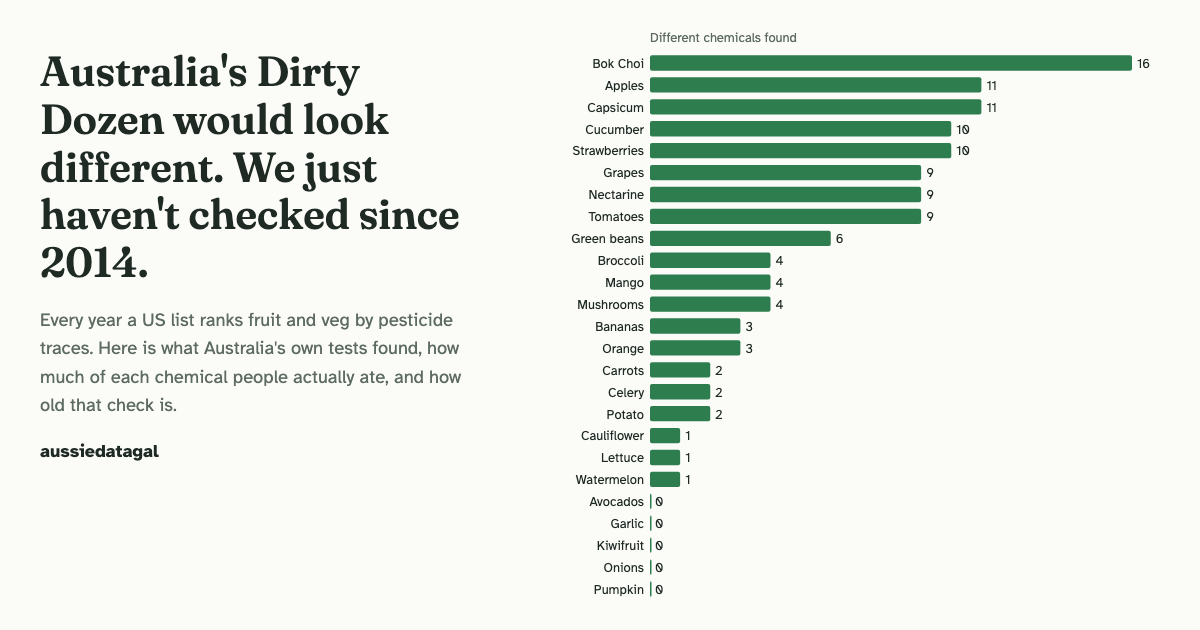
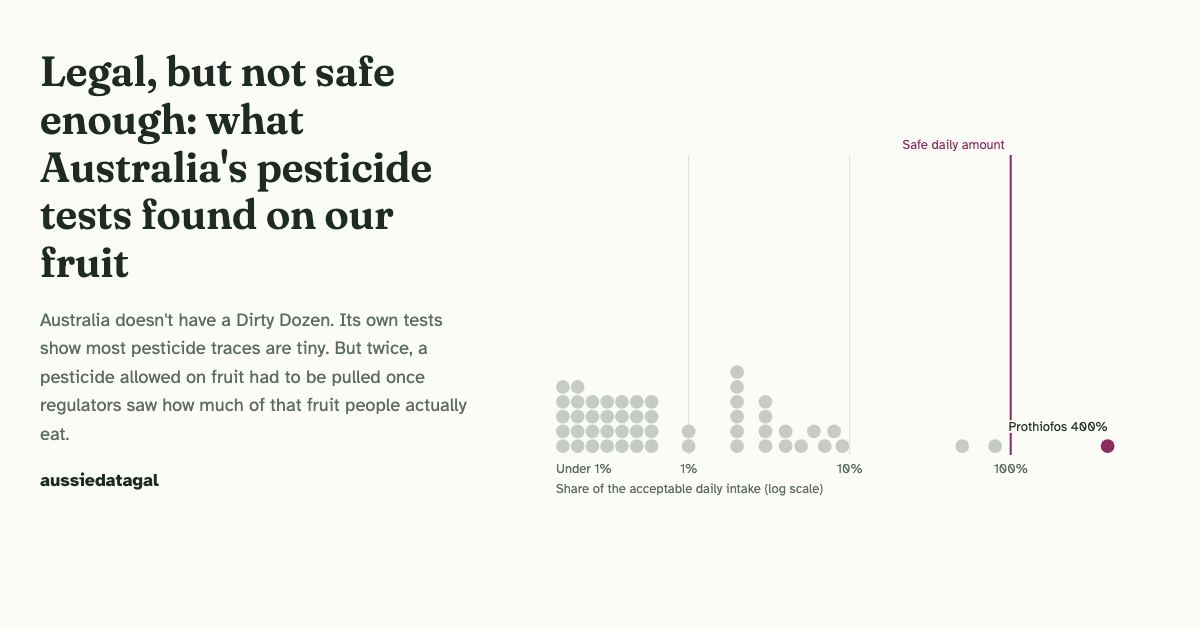
Refocus on grapes and berries, add 2025 NSW berry testing

diff --git a/index.html b/index.html
@@ -3,10 +3,10 @@
 <head>
   <meta charset="utf-8">
   <meta name="viewport" content="width=device-width, initial-scale=1">
-  <title>Australia's Dirty Dozen would look different. We just haven't checked since 2014.</title>
-  <meta name="description" content="The US Dirty Dozen is built from US tests. Australia's own check of pesticides in everyday food found a different top list, mostly tiny amounts, one real problem on grapes, and used groceries bought in 2013 and 2014.">
-  <meta property="og:title" content="Australia's Dirty Dozen would look different. We just haven't checked since 2014.">
-  <meta property="og:description" content="What Australia's own pesticide tests found in fruit and veg, against safe limits, and how old that check is.">
+  <title>Legal, but not safe enough: what Australia's pesticide tests found on our fruit</title>
+  <meta name="description" content="Australia has no Dirty Dozen. Its own tests show most pesticide traces on fruit and veg are tiny. But twice a pesticide allowed on fruit was pulled once regulators saw how much of that fruit people eat: grapes, then berries in 2025.">
+  <meta property="og:title" content="Legal, but not safe enough: what Australia's pesticide tests found on our fruit">
+  <meta property="og:description" content="Most traces are tiny. The problems were legal pesticide uses that stopped being safe once people ate more of the fruit.">
   <meta property="og:image" content="https://aussiedatagal.github.io/dirty-dozen/img/og.png">
   <meta property="og:url" content="https://aussiedatagal.github.io/dirty-dozen/">
   <meta name="twitter:card" content="summary_large_image">
@@ -25,8 +25,8 @@
 
   <main>
     <section class="intro prose">
-      <h1>Australia's Dirty Dozen would look different. We just haven't checked since 2014.</h1>
-      <p class="dek">Every year a US list ranks fruit and veg by pesticide traces. Here is what Australia's own tests found, how much of each chemical people actually ate, and how old that check is.</p>
+      <h1>Legal, but not safe enough: what Australia's pesticide tests found on our fruit</h1>
+      <p class="dek">Australia doesn't have a Dirty Dozen. Its own tests show most pesticide traces are tiny. But twice, a pesticide allowed on fruit had to be pulled once regulators saw how much of that fruit people actually eat.</p>
       <p class="scroll-hint">Scroll to start</p>
     </section>
 
@@ -36,17 +36,9 @@
         <p class="sr-only" id="list-desc" aria-live="polite"></p>
       </figure>
       <div class="steps">
-        <div class="step" data-state="all">
-          <p>This is the 2026 Dirty Dozen. The Environmental Working Group, a US advocacy group, ranks produce by the pesticide traces found in US government tests. Spinach came first this year.</p>
-          <p>Australian shoppers see the list too. But every number behind it comes from produce sold in the US.</p>
-        </div>
         <div class="step" data-state="tested">
-          <p>Australia does test its own food. Food Standards Australia New Zealand (FSANZ) runs the <a href="https://www.foodstandards.gov.au/science-data/monitoring-safety/australian-total-diet-study">Australian Total Diet Study</a>. It buys ordinary groceries around the country and sends them to a lab.</p>
-          <p>Its last pesticide round covered 88 foods. Only <strong>5 of the Dirty Dozen</strong> were in it as fresh produce.</p>
-        </div>
-        <div class="step" data-state="untested">
-          <p>Spinach, kale, cherries, blackberries, pears and blueberries were not tested at all. Peaches were only tested canned, and nothing turned up.</p>
-          <p>So the top of the US list is mostly foods Australia's diet study never looked at.</p>
+          <p>This is the 2026 Dirty Dozen. It ranks produce by pesticide traces, using US government tests of US produce.</p>
+          <p>Australia's own check, the <a href="https://www.foodstandards.gov.au/science-data/monitoring-safety/australian-total-diet-study">Australian Total Diet Study</a>, only tested 5 of these 12 fresh.</p>
         </div>
       </div>
     </section>
@@ -58,23 +50,12 @@
       </figure>
       <div class="steps">
         <div class="step" data-state="all">
-          <p>So what would an Australian list look like? These are all 25 fresh fruits and vegetables in the study.</p>
-          <p>They are ranked the way FSANZ reported them: by how many different farm chemicals turned up across each food's samples.</p>
+          <p>These are the 25 fresh fruits and vegetables Australia did test, ranked by how many different farm chemicals turned up in their samples.</p>
+          <p>Bok choi tops it with 16. Five had none.</p>
         </div>
         <div class="step" data-state="top">
-          <p><strong>Bok choi</strong> tops it, with 16 different chemicals across 8 samples. Capsicum and cucumber are near the top too.</p>
-          <p>None of those three are on the US list.</p>
-        </div>
-        <div class="step" data-state="overlap">
-          <p>Apples, strawberries, grapes and nectarines are high on both lists.</p>
-          <p>Potatoes are 11th in the US. Here, only 2 chemicals turned up, each in a single sample.</p>
-        </div>
-        <div class="step" data-state="clean">
-          <p>Two of the US "Clean Fifteen" look less clean here. Every cauliflower sample had dithiocarbamate fungicides. Carbendazim, another fungicide, was in 6 of 8 mushroom samples.</p>
-        </div>
-        <div class="step" data-state="zero">
-          <p>Five had nothing at all: avocados, garlic, kiwifruit, onions and pumpkin.</p>
-          <p>A count of chemicals says nothing about the amounts, though. That is the part that matters for health.</p>
+          <p>The top three here, bok choi, capsicum and cucumber, aren't on the US list at all.</p>
+          <p>But a count of chemicals says nothing about how much was there. That's what decides whether it matters.</p>
         </div>
       </div>
     </section>
@@ -85,64 +66,49 @@
         <p class="sr-only" id="dots-desc" aria-live="polite"></p>
       </figure>
       <div class="steps">
-        <div class="step" data-state="all">
-          <p>Each dot is one chemical the study found. Further right means people ate more of it.</p>
-          <p>The scale is the <em>acceptable daily intake</em>: the amount you could eat every day for life without appreciable risk to health. The line marks 100% of it.</p>
-        </div>
         <div class="step" data-state="worst">
-          <p>These dots are a worst case. For each chemical we show the age group that ate the most, and the top 10% of eaters in that group.</p>
-          <p>Even so, <strong>49 of the 52</strong> chemicals FSANZ assessed stay under 10% of the safe amount. Most are under 1%.</p>
-        </div>
-        <div class="step" data-state="close">
-          <p>Two get closer. Dithiocarbamate fungicides reach 80% for heavy-eating 2 to 5 year olds. Broccoli, grapes and cauliflower had the most.</p>
-          <p>Propargite, a mite killer found on nectarines and apples, reaches 50%.</p>
+          <p>Each dot is one chemical. It sits at how much the heaviest eaters got, as a share of the <em>acceptable daily intake</em>: the amount you could eat every day for life without appreciable risk.</p>
+          <p><strong>49 of 52</strong> stay under 10% of that.</p>
         </div>
         <div class="step" data-state="over">
-          <p>One went over. <strong>Prothiofos</strong>, an insecticide, came only from grapes.</p>
-          <p>For 2 to 5 year olds who ate grapes, the average dose was double the safe amount. The top 10% got four times it.</p>
-        </div>
-        <div class="step" data-state="over">
-          <p>Every one of those grape samples was legal. The residues were well under the maximum residue limit, the legal cap for grapes.</p>
-          <p>The legal limit and the safe limit had come apart. After FSANZ raised it, the company holding the approval cancelled its use on grapes.</p>
+          <p>One went over. <strong>Prothiofos</strong>, an insecticide, came only from grapes. Young kids who ate grapes got double the safe amount on average.</p>
+          <p>Yet every grape sample was under the legal limit. After FSANZ raised it, the company behind it cancelled its use on grapes.</p>
           <a class="scan-link" href="img/fsanz-prothiofos.png"><img class="scan" src="img/fsanz-prothiofos.png" width="1290" height="260" alt="Paragraph from the FSANZ report: the detections of prothiofos in composite grape samples were all well below the MRL, and the Australian registrant voluntarily cancelled label approvals for the use of prothiofos on grapes."></a>
-          <p class="credit">From the 25th Australian Total Diet Study, page 30. Food Standards Australia New Zealand. Tap to enlarge.</p>
+          <p class="credit">25th Australian Total Diet Study, page 30. Food Standards Australia New Zealand.</p>
         </div>
       </div>
     </section>
 
-    <section class="scrolly" id="time">
-      <figure class="sticky" aria-describedby="time-desc">
+    <section class="scrolly" id="berries">
+      <figure class="sticky" aria-describedby="berries-desc">
         <div class="graphic"></div>
-        <p class="sr-only" id="time-desc" aria-live="polite"></p>
+        <p class="sr-only" id="berries-desc" aria-live="polite"></p>
       </figure>
       <div class="steps">
-        <div class="step" data-state="bought">
-          <p>That check is old. The groceries were bought in May 2013 and February 2014. The report came out in June 2019.</p>
+        <div class="step" data-state="punnets">
+          <p>In 2025 it happened again, with berries.</p>
+          <p>A Southern Cross University researcher <a href="https://www.abc.net.au/news/2025-09-07/pesticide-review-thiometon-dimethoate-blueberries-raspberries/105701674">reported pesticides in NSW supermarket berries</a>, including one banned since 2001. In November, the NSW Food Authority bought 100 punnets from Sydney shops and had them tested.</p>
         </div>
-        <div class="step" data-state="since">
-          <p>FSANZ has published two total diet studies since. One tested dioxins and the other PFAS. Neither tested pesticides.</p>
-          <p>Twelve years after the shopping trip, it is still the latest look at pesticides across the Australian diet.</p>
+        <div class="step" data-state="residues">
+          <p><strong>95 of the 100</strong> had at least one pesticide.</p>
+          <p>Every one was within the legal limit, and the banned pesticide wasn't in any of them.</p>
         </div>
-        <div class="step" data-state="apples">
-          <p>Newer testing exists, but it is narrow. The National Residue Survey checks apples and pears every year for the fruit industry. It only reports samples near or over the legal limit.</p>
-          <p>Each square here is one apple sample from 2024-25.</p>
-        </div>
-        <div class="step" data-state="apples-over">
-          <p>In 2024-25, <strong>6 of 170</strong> apple samples were over the legal limit for the fungicide iprodione. Another 4 were above half of it.</p>
-          <p>The year before, it was 2 of 166 over.</p>
+        <div class="step" data-state="dimethoate">
+          <p>But legal wasn't the whole story. Australians now eat significantly more berries than when the insecticide <strong>dimethoate</strong> was last assessed in 2017.</p>
+          <p>At today's intake, the regulator found its approved use on berries no longer left an adequate safety margin. It suspended that use in November 2025, while saying the residues found were unlikely to pose a serious risk.</p>
         </div>
       </div>
     </section>
 
     <section class="prose turn">
-      <h2>So is there an Australian Dirty Dozen?</h2>
-      <p>Not one you can build honestly from public data. The only full check says most traces were tiny, with one real problem caught and fixed. But it tested food from 2014, and nobody has published a repeat.</p>
-      <p>What it can't tell you is whether today's bok choi or grapes look the same. A new pesticide round of the Total Diet Study would answer that.</p>
+      <h2>So what would an Australian Dirty Dozen show?</h2>
+      <p>Not a list of foods to avoid. Most traces here are tiny. Both real problems were pesticides used legally on popular fruit, where the rules hadn't kept up with how much of it people eat.</p>
+      <p>The next full check is underway. FSANZ began collecting over 2,000 food samples in 2025 for a new Total Diet Study that includes pesticides. The last one used groceries bought in 2013 and 2014.</p>
     </section>
 
     <section class="lookup prose" id="lookup">
       <h2>Look up a food</h2>
-      <p>All 88 foods in the study, including bread, cereal, meat and drinks.</p>
+      <p>All 88 foods from the last Total Diet Study (bought 2013 and 2014), including bread, cereal, meat and drinks.</p>
       <label for="food-search">Food</label>
       <input id="food-search" type="search" placeholder="Try apples or bread" autocomplete="off">
       <ul class="food-list" id="food-list"></ul>
@@ -151,12 +117,11 @@
 
     <section class="method prose" id="method">
       <h2>How this was made</h2>
-      <p>The Australian results are from the <a href="https://www.foodstandards.gov.au/science-data/monitoring-safety/australian-total-diet-study">25th Australian Total Diet Study</a> (FSANZ, June 2019): Table A3.9 for which chemicals were found in which foods, and Appendix 11 for dietary exposure as a share of the acceptable daily intake. FSANZ bought 1,524 grocery items and blended them in threes into 508 composite samples. Most fresh produce had 8 composites each (mango and garlic had 4). 172 of the 508 had at least one farm chemical.</p>
-      <p>A composite blends three purchases, so "found in 2 of 8 samples" means at least 2 of 24 purchases. These numbers can't be compared with US rates, which come from single samples.</p>
-      <p>The ranking counts different chemicals per food, as FSANZ did. It ignores amounts. The dots use the highest 90th percentile exposure across age groups, for people who ate the food. Chemicals under 1% are drawn at 0.5%.</p>
-      <p>Apple results are from the <a href="https://www.agriculture.gov.au/agriculture-land/farm-food-drought/food/nrs/nrs-results-publications">National Residue Survey</a> annual datasets for 2023-24 and 2024-25 (Department of Agriculture, Fisheries and Forestry). The survey is run for industry and only reports results above half the legal limit.</p>
-      <p>The 2026 Dirty Dozen and Clean Fifteen are from the <a href="https://www.ewg.org/foodnews/">Environmental Working Group</a>, as reported by <a href="https://www.foodsafetynews.com/2026/04/ewg-reveals-its-dirty-dozen-aff-challenges-validity-of-list/">Food Safety News</a> on 8 April 2026.</p>
-      <p>FSANZ and DAFF material is used under <a href="https://creativecommons.org/licenses/by/4.0/">CC BY 4.0</a>. Neither agency has reviewed or endorsed this page.</p>
+      <p>The ranking and the dots are from the <a href="https://www.foodstandards.gov.au/science-data/monitoring-safety/australian-total-diet-study">25th Australian Total Diet Study</a> (FSANZ, June 2019): Table A3.9 for which chemicals were found in which foods, and Appendix 11 for intake as a share of the acceptable daily intake. Groceries were bought in May 2013 and February 2014, then blended in threes into 508 composite samples. Most fresh produce had 8 composites each (mango and garlic had 4). Because each composite blends three purchases, these numbers can't be compared with US rates, which come from single samples.</p>
+      <p>The ranking counts different chemicals per food, as FSANZ did, and ignores amounts. Each dot is the highest 90th percentile intake across age groups, for people who ate the food. Chemicals under 1% are drawn in a block below 1%.</p>
+      <p>Berry results are from the NSW Food Authority's <a href="https://www.foodauthority.nsw.gov.au/media/9265">Pesticides in berries survey</a> (published March 2026): 80 blueberry and 20 raspberry punnets bought in Sydney on 3 and 4 November 2025, tested for 218 pesticides. © State of New South Wales through the NSW Food Authority, www.foodauthority.nsw.gov.au. The dimethoate suspension was announced by the Australian Pesticides and Veterinary Medicines Authority on 11 November 2025, as reported by <a href="https://www.fruitnet.com/produce-plus/apvma-suspends-dimethoate-for-blueberries-raspberries-and-blackberries-as-precautionary-measure/269620.article">Fruitnet</a>. The new Total Diet Study was announced by <a href="https://foodstandards.gov.au/news/safeguarding-food-safety-through-surveillance-and-horizon-scanning">FSANZ in January 2025</a>.</p>
+      <p>The 2026 Dirty Dozen is from the <a href="https://www.ewg.org/foodnews/">Environmental Working Group</a>, as reported by <a href="https://www.foodsafetynews.com/2026/04/ewg-reveals-its-dirty-dozen-aff-challenges-validity-of-list/">Food Safety News</a> on 8 April 2026.</p>
+      <p>FSANZ material is used under <a href="https://creativecommons.org/licenses/by/4.0/">CC BY 4.0</a>. None of these agencies has reviewed or endorsed this page.</p>
     </section>
   </main>
 

diff --git a/js/graphics/punnets.js b/js/graphics/punnets.js
@@ -1,0 +1,61 @@
+import { el, text, frame } from '../svg.js';
+
+const DESCRIPTIONS = {
+  punnets: '100 squares, one per berry punnet: 80 blueberry and 20 raspberry.',
+  residues: '95 of 100 punnets had at least one pesticide. None were over the legal limit and none had a banned pesticide.',
+  dimethoate: '95 of 100 punnets had at least one pesticide, all legal. Dimethoate use on berries was suspended in November 2025.',
+};
+
+export function init(container, berries) {
+  const kinds = [
+    { name: 'Blueberries', ...berries.blueberry },
+    { name: 'Raspberries', ...berries.raspberry },
+  ];
+  let squares = [], notes = {};
+
+  function draw() {
+    const { svg, width, height } = frame(container);
+    const cols = 10;
+    const size = Math.min((width - 20) / cols, (height - 120) / 11, 30);
+    const left = (width - cols * size) / 2;
+    let y = 22;
+    squares = [];
+
+    for (const kind of kinds) {
+      text(svg, `${kind.name} (${kind.samples} punnets)`, { x: left, y, 'font-size': 13, 'font-weight': 700 });
+      y += 8;
+      for (let i = 0; i < kind.samples; i++) {
+        const sq = el('rect', {
+          class: 'mark',
+          x: left + (i % cols) * size + 1,
+          y: y + Math.floor(i / cols) * size + 1,
+          width: size - 2, height: size - 2, rx: 2,
+        }, svg);
+        squares.push({ sq, found: i < kind.with_residue });
+      }
+      y += Math.ceil(kind.samples / cols) * size + 24;
+    }
+
+    const key = el('g', { class: 'mark' }, svg);
+    el('rect', { x: left, y: y - 12, width: 12, height: 12, fill: 'var(--muted)' }, key);
+    text(key, 'At least one pesticide found', { x: left + 18, y, 'font-size': 12 });
+    text(key, 'All within the legal limit. No banned pesticides.', { x: left, y: y + 20, 'font-size': 12, class: 'muted' });
+    notes.key = key;
+
+    const tag = el('g', { class: 'mark' }, svg);
+    text(tag, 'Nov 2025: dimethoate suspended on berries', { x: left, y: y + 48, 'font-size': 15, 'font-weight': 700, fill: 'var(--plum)' });
+    notes.tag = tag;
+  }
+
+  function update(state) {
+    for (const { sq, found } of squares) {
+      sq.style.fill = state !== 'punnets' && found ? 'var(--muted)' : 'var(--faint)';
+    }
+    notes.key.style.opacity = state === 'punnets' ? 0 : 1;
+    notes.tag.style.opacity = state === 'dimethoate' ? 1 : 0;
+    return DESCRIPTIONS[state];
+  }
+
+  draw();
+  return { update, resize: draw };
+}

diff --git a/js/graphics/dots.js b/js/graphics/dots.js
@@ -62,9 +62,14 @@ export function init(container, chemicals) {
       if (!['Prothiofos', 'Dithiocarbamates', 'Propargite'].includes(chem.name)) continue;
       const g = el('g', { class: 'mark' }, svg);
       const lift = chem.name === 'Propargite' ? 64 : chem.name === 'Dithiocarbamates' ? 40 : 40;
-      el('line', { x1: cx, x2: cx, y1: cy - r, y2: cy - lift + 4, stroke: 'currentColor', class: 'grid' }, g);
-      const anchor = cx > width * 0.7 ? 'end' : 'middle';
-      text(g, `${chem.name} ${chem.p90}%`, { x: cx, y: cy - lift, 'text-anchor': anchor, 'font-size': 13, 'font-weight': 700 });
+      const label = `${chem.name} ${chem.p90}%`;
+      if (cx > width * 0.8) {
+        // far right: label sits beside the dot, above the axis
+        text(g, label, { x: cx, y: cy - r - 8, 'text-anchor': 'end', 'font-size': 13, 'font-weight': 700 });
+      } else {
+        el('line', { x1: cx, x2: cx, y1: cy - r, y2: cy - lift + 4, class: 'grid' }, g);
+        text(g, label, { x: cx, y: cy - lift, 'text-anchor': 'middle', 'font-size': 13, 'font-weight': 700 });
+      }
       labels[chem.name] = g;
     }
     const under = chemicals.filter(c => pct(c.p90) < 10).length;

diff --git a/js/main.js b/js/main.js
@@ -2,7 +2,7 @@ import { watchSteps } from './scroller.js';
 import * as list from './graphics/list.js';
 import * as bars from './graphics/bars.js';
 import * as dots from './graphics/dots.js';
-import * as timeline from './graphics/timeline.js';
+import * as punnets from './graphics/punnets.js';
 import { initLookup } from './lookup.js';
 
 const load = name => fetch(`data/${name}.json`).then(r => r.json());
@@ -11,12 +11,12 @@ const sections = [
   { id: 'list', chart: list, data: ['us-lists'] },
   { id: 'bars', chart: bars, data: ['foods', 'us-lists'] },
   { id: 'dots', chart: dots, data: ['chemicals'] },
-  { id: 'time', chart: timeline, data: ['apples-iprodione'] },
+  { id: 'berries', chart: punnets, data: ['berries'] },
 ];
 
 async function start() {
   const files = {};
-  for (const name of ['us-lists', 'foods', 'chemicals', 'apples-iprodione']) files[name] = load(name);
+  for (const name of ['us-lists', 'foods', 'chemicals', 'berries']) files[name] = load(name);
 
   for (const { id, chart, data } of sections) {
     const section = document.getElementById(id);

diff --git a/css/scrolly.css b/css/scrolly.css
@@ -47,7 +47,7 @@
 .credit { font-size: 0.8rem; color: var(--muted); }
 
 /* chart text and marks */
-.graphic text { fill: var(--ink); font: 13px var(--body); }
+.graphic text { fill: var(--ink); font: 13px var(--body); paint-order: stroke; stroke: var(--bg); stroke-width: 4px; stroke-linejoin: round; }
 .graphic .muted { fill: var(--muted); }
 .graphic .axis line, .graphic .grid { stroke: var(--rule); }
 .graphic .limit { stroke: var(--plum); stroke-width: 2; }

diff --git a/js/svg.js b/js/svg.js
@@ -9,6 +9,7 @@ export function el(name, attrs = {}, parent) {
 
 export function text(parent, str, attrs = {}) {
   const t = el('text', attrs, parent);
+  if (attrs.fill) t.style.fill = attrs.fill;   // the stylesheet sets a default text fill
   t.textContent = str;
   return t;
 }

diff --git a/README.md b/README.md
@@ -1,13 +1,14 @@
-# Australia's Dirty Dozen
+# Legal, but not safe enough
 
-What Australia's own pesticide tests found in fruit and veg, compared with the US Dirty Dozen, and how old that check is.
+What Australia's own pesticide tests found on fruit and veg: mostly tiny traces, and two legal pesticide uses (grapes, then berries) pulled once regulators saw how much of that fruit people eat.
 
 Live: https://aussiedatagal.github.io/dirty-dozen/
 
 ## Data
 
 - 25th Australian Total Diet Study (2019), Food Standards Australia New Zealand. Table A3.9 and Appendix 11. CC BY 4.0.
-- National Residue Survey apple datasets 2023-24 and 2024-25, Department of Agriculture, Fisheries and Forestry. CC BY 4.0.
+- Pesticides in berries survey (2026), NSW Food Authority. © State of New South Wales through the NSW Food Authority.
+- Dimethoate suspension on berries (APVMA, 11 November 2025), via Fruitnet.
 - 2026 Dirty Dozen and Clean Fifteen, Environmental Working Group, via Food Safety News (8 April 2026).
 
 The files in `data/` were extracted from the published PDFs.
